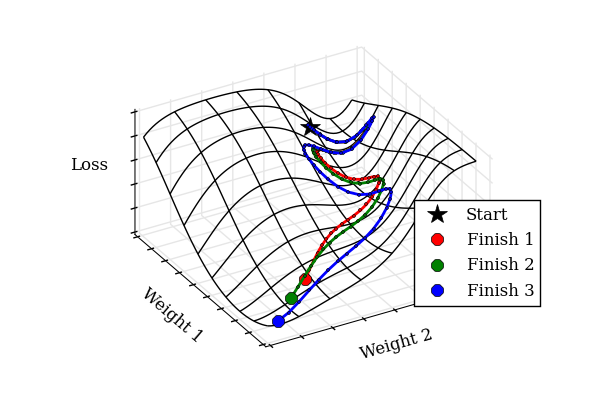
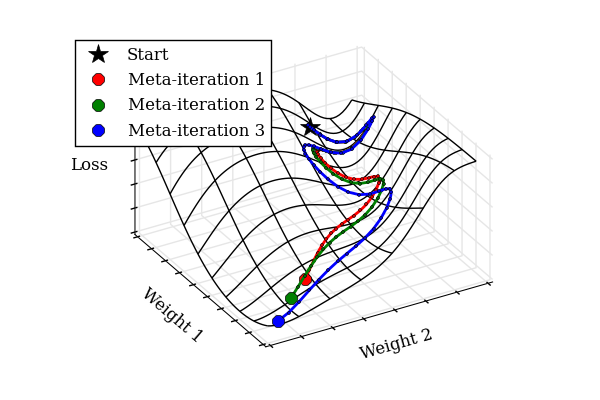
Updated Figure 1

Changed region(s): [[0.12, 0.09, 0.48, 0.39], [0.69, 0.48, 0.93, 0.78]]

diff --git a/experiments/Jan_25_Figure_1/2/experiment.py b/experiments/Jan_25_Figure_1/2/experiment.py
@@ -80,7 +80,7 @@ def run():
 
     add_fields = ['train_loss', 'valid_loss', 'tests_loss', 'iter_num']
     meta_results = {field : [] for field in add_fields + hyperparams.names}
-    def meta_callback(hyperparam_vect, i):
+    def meta_callback(hyperparam_vect, i, g):
         if i % N_meta_thin == 0:
             print "Meta iter {0}".format(i)
             x = all_x[-1]
@@ -138,7 +138,7 @@ def plot():
         if i == 0:
             ax.plot([x[1]], [y[1]], [z[1]], '*', color='Black', label="Start", markersize=15)
         ax.plot(x, y, z, '-o', color=colors[i], markersize=2, linewidth=2)
-        ax.plot([x[-1]], [y[-1]], [z[-1]], 'o', color=colors[i], label='Finish {0}'.format(i+1), markersize=9)
+        ax.plot([x[-1]], [y[-1]], [z[-1]], 'o', color=colors[i], label='Meta-iteration {0}'.format(i+1), markersize=9)
 
     ax.set_xlabel('Weight 2', fontproperties='serif')
     ax.set_ylabel('Weight 1', fontproperties='serif')
@@ -150,7 +150,7 @@ def plot():
     ax.w_yaxis.set_pane_color((1.0, 1.0, 1.0, 1.0))
     ax.w_zaxis.set_pane_color((1.0, 1.0, 1.0, 1.0))
     ax.view_init(elev=46, azim=-120)
-    ax.legend(numpoints=1, loc=1, frameon=True, bbox_to_anchor=(1.0, 0.5),
+    ax.legend(numpoints=1, loc=0, frameon=True, # bbox_to_anchor=(1.0, 0.5),
               borderaxespad=0.0, prop={'family':'serif', 'size':'12'})
 
     #plt.show()
